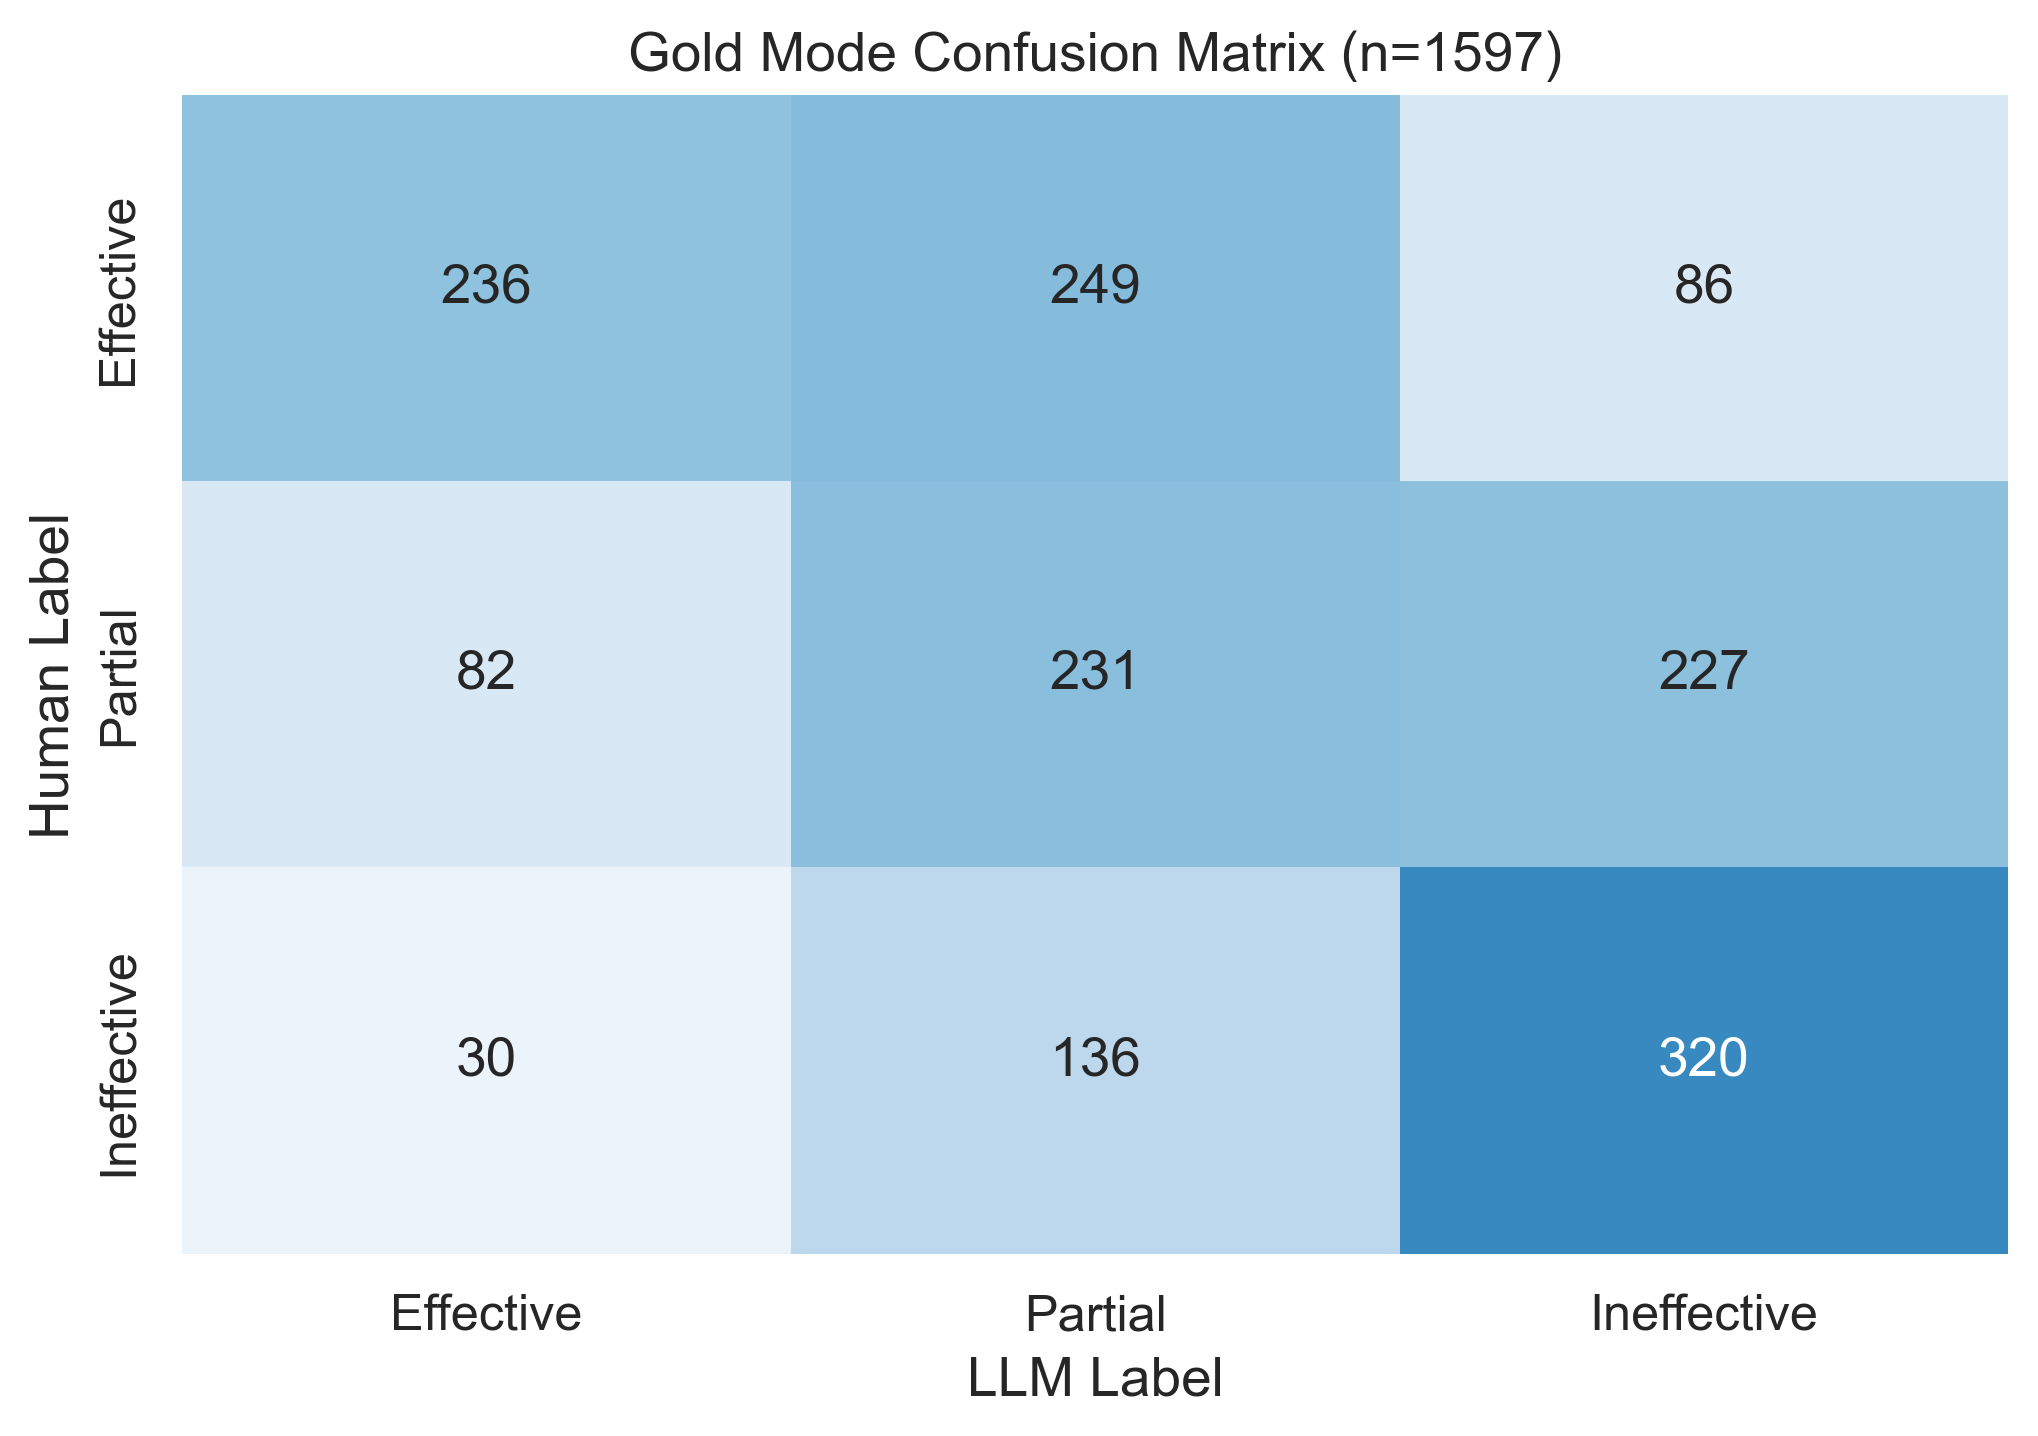
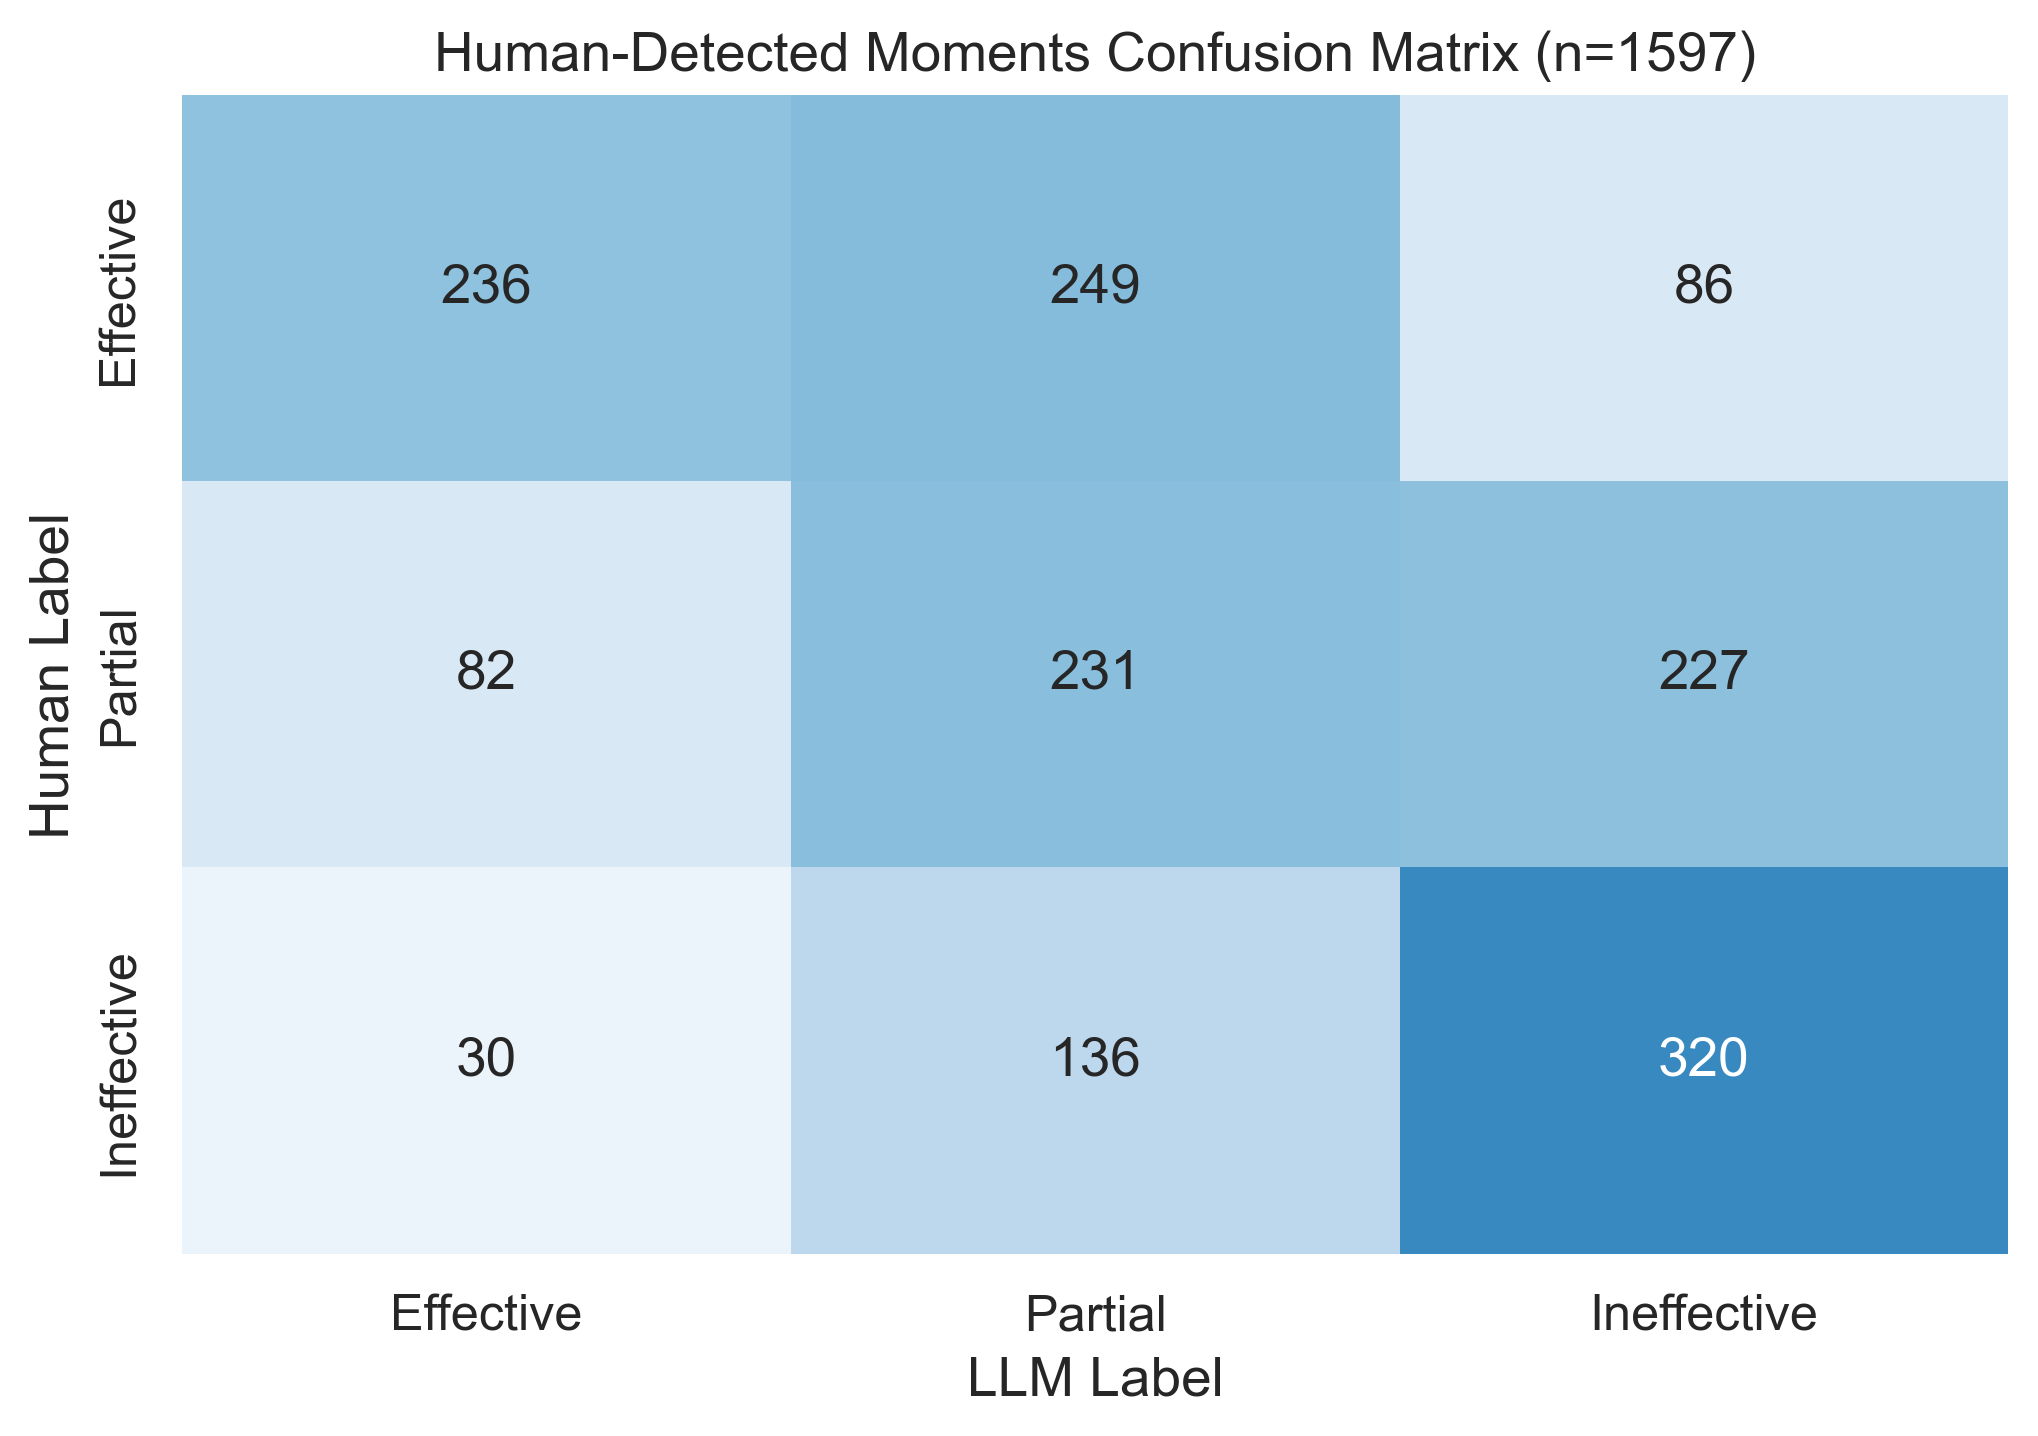
validation: consistent profile table, generic vs calibrated comparison
- Annotator profile section now shows generic v5 vs calibrated prompts
  side by side in the same table, split by dev/held-out/combined
- Shows calibration effect: generous +14pp, demanding +23pp, balanced ~0pp
- Removed separate "Full Pipeline by Annotator Profile" section (was
  misleadingly showing generic prompt filtered against archetype GT)
- Added Combined row to per-type tables
- Human ceiling per profile shown below the main table

Changed region(s): [[0.2164, 0.0, 0.8656, 0.0613]]

diff --git a/validation/_generate_notebooks.py b/validation/_generate_notebooks.py
@@ -524,11 +524,13 @@ if v5_gold:
     c.append(md("""
 ### Human-Detected Moments by Annotator Profile
 
-Human annotators cluster into three profiles by labeling tendency. The LLM uses **different annotation prompts calibrated to each profile** — the generous prompt was iterated to match generous annotators' standards, etc. This is not filtering the same output; each profile has its own prompt that was tuned to that group's labeling patterns.
+Human annotators cluster into three profiles by labeling tendency:
 
 - **Generous** (Gerber, Jones, Shields, Stobbe, Trujillo): more likely to rate effective
 - **Balanced** (Forbes, Mann, Padgett): middle ground
-- **Demanding** (Flick): more likely to rate ineffective (n=118, thin sample — interpret with caution)
+- **Demanding** (Flick): more likely to rate ineffective (n=118, thin sample)
+
+We show two LLM results for each profile: **generic** (the standard v5 prompt, same for all profiles) and **calibrated** (a prompt specifically iterated to match that annotator group's labeling standards). This shows whether per-profile calibration improves agreement.
 """))
 
     c.append(code("""
@@ -538,53 +540,64 @@ GOLD_STYLE_VERSION = 'v5_gold'
 
 arch_rows = []
 for arch in ARCH_NAMES:
-    # Load the style-specific gold annotations (run with profile-calibrated prompts)
-    style_anns, style_gold = load_annotations(GOLD_STYLE_VERSION, f'annotations_gold_{arch}.json')
-    if style_anns is None:
-        print(f'{arch}: no style-specific gold annotations found')
-        continue
-
     try:
         arch_ids = load_annotator_archetype_ids(arch)
         arch_gt = filter_ground_truth_by_archetype(
             {'conversations': {c: ground_truth['conversations'][c] for c in all_eval_ids}},
             arch_ids)
-    except Exception as e:
-        print(f'{arch}: could not load archetype GT: {e}')
+    except Exception:
         continue
 
-    # Match style-specific LLM annotations against archetype-filtered ground truth
-    matches = []
-    for cid, conv_data in arch_gt['conversations'].items():
-        hm = conv_data['key_moments']
-        llm = style_anns.get(cid, [])
-        if style_gold:
-            matches.extend(match_gold_direct(hm, llm))
-        else:
-            matches.extend(match_for_effectiveness(hm, llm, iou_threshold=IOU))
+    # Load both generic and calibrated annotations
+    generic_anns = v5_gold  # generic v5 prompt
+    style_anns, _ = load_annotations(GOLD_STYLE_VERSION, f'annotations_gold_{arch}.json')
 
-    if matches:
-        eff = compute_effectiveness_metrics(matches)
-        # Human ceiling for this archetype
-        arch_ceil = compute_human_ceiling(arch_gt)
-        ceil_str = f"{arch_ceil['three_way_kappa']:.4f} ({arch_ceil['overlapping_pairs']} pairs)"
-        if arch_ceil['overlapping_pairs'] == 0:
-            ceil_str = 'N/A (single annotator)'
+    # Human ceiling for this archetype
+    arch_ceil = compute_human_ceiling(arch_gt)
 
-        arch_rows.append({
-            '': arch.title(),
-            'N moments': eff['total_matched'],
-            'N convs': len([c for c in arch_gt['conversations']]),
-            '3-Way Kappa': f"{eff['three_way_kappa']:.4f}",
-            'Binary Kappa': f"{eff['binary_kappa']:.4f}",
-            'Human Ceiling (3W)': ceil_str,
-        })
-        print(f'{arch}: 3way={eff["three_way_kappa"]:.4f}, n={eff["total_matched"]}')
+    for label, ids in [('Dev', dev_ids), ('Held-out', ho_ids), ('Combined', all_eval_ids)]:
+        for mode_label, anns in [('Generic', generic_anns), ('Calibrated', style_anns)]:
+            if anns is None:
+                continue
+            matches = []
+            for cid in sorted(ids):
+                hm = arch_gt['conversations'].get(cid, {}).get('key_moments', [])
+                if not hm:
+                    continue
+                matches.extend(match_gold_direct(hm, anns.get(cid, [])))
+            if matches:
+                eff = compute_effectiveness_metrics(matches)
+                arch_rows.append({
+                    'Profile': arch.title(),
+                    'Prompt': mode_label,
+                    'Split': label,
+                    'N': eff['total_matched'],
+                    '3-Way Kappa': f"{eff['three_way_kappa']:.4f}",
+                    'Binary Kappa': f"{eff['binary_kappa']:.4f}",
+                })
 
 if arch_rows:
-    df_arch = pd.DataFrame(arch_rows).set_index('')
-    print('\\nHuman-Detected Moments by Annotator Profile (profile-calibrated prompts)\\n')
-    df_arch
+    df_arch = pd.DataFrame(arch_rows)
+    print('Human-Detected Moments by Annotator Profile')
+    print('Generic = standard v5 prompt | Calibrated = profile-specific iterated prompt\\n')
+    display(df_arch)
+
+    # Also show ceiling
+    print('\\nHuman inter-annotator ceiling per profile:')
+    for arch in ARCH_NAMES:
+        try:
+            arch_ids = load_annotator_archetype_ids(arch)
+            arch_gt = filter_ground_truth_by_archetype(
+                {'conversations': {c: ground_truth['conversations'][c] for c in all_eval_ids}},
+                arch_ids)
+            ceil = compute_human_ceiling(arch_gt)
+            if ceil['overlapping_pairs'] > 0:
+                print(f'  {arch.title():12s}: 3-way kappa = {ceil[\"three_way_kappa\"]:.4f} '
+                      f'({ceil[\"overlapping_pairs\"]} pairs)')
+            else:
+                print(f'  {arch.title():12s}: N/A (single annotator)')
+        except Exception:
+            pass
 """))
 
     # ---- Full pipeline ----
@@ -666,49 +679,6 @@ if v5_anns:
     df_full_type = pd.DataFrame(type_rows).set_index('')
     print(f'Full Pipeline by Type (combined, IoU >= {IOU})\\n')
     df_full_type
-"""))
-
-    c.append(md("""
-### Full Pipeline by Annotator Profile
-
-Unlike the human-detected moments section above (where each profile has its own calibrated LLM prompt), the full pipeline used a **single generic prompt** for all annotations. Here we compare that same LLM output against each annotator group's ground truth separately. This answers: "how does the end-to-end pipeline's output look from each annotator group's perspective?" — it's not a claim about per-profile calibration.
-"""))
-
-    c.append(code("""
-if v5_anns:
-    from annotator.eval.eval import load_annotator_archetype_ids, filter_ground_truth_by_archetype
-    ARCH_NAMES = ['generous', 'balanced', 'demanding']
-
-    arch_rows = []
-    for arch in ARCH_NAMES:
-        try:
-            arch_ids = load_annotator_archetype_ids(arch)
-            arch_gt = filter_ground_truth_by_archetype(
-                {'conversations': {c: ground_truth['conversations'][c] for c in all_eval_ids}},
-                arch_ids)
-        except Exception:
-            continue
-
-        matches = []
-        for cid, conv_data in arch_gt['conversations'].items():
-            hm = conv_data['key_moments']
-            ht = {m.get('annotation_type') for m in hm}
-            llm = [a for a in v5_anns.get(cid, []) if a.get('annotation_type') in ht]
-            matches.extend(match_for_effectiveness(hm, llm, iou_threshold=IOU))
-
-        if matches:
-            eff = compute_effectiveness_metrics(matches)
-            arch_rows.append({
-                '': arch.title(),
-                'N': eff['total_matched'],
-                '3-Way Kappa': f"{eff['three_way_kappa']:.4f}",
-                'Binary Kappa': f"{eff['binary_kappa']:.4f}",
-            })
-
-    if arch_rows:
-        df_full_arch = pd.DataFrame(arch_rows).set_index('')
-        print(f'Full Pipeline by Annotator Profile (generic prompt, IoU >= {IOU})\\n')
-        df_full_arch
 """))
 
     # ---- Comparison summary ----